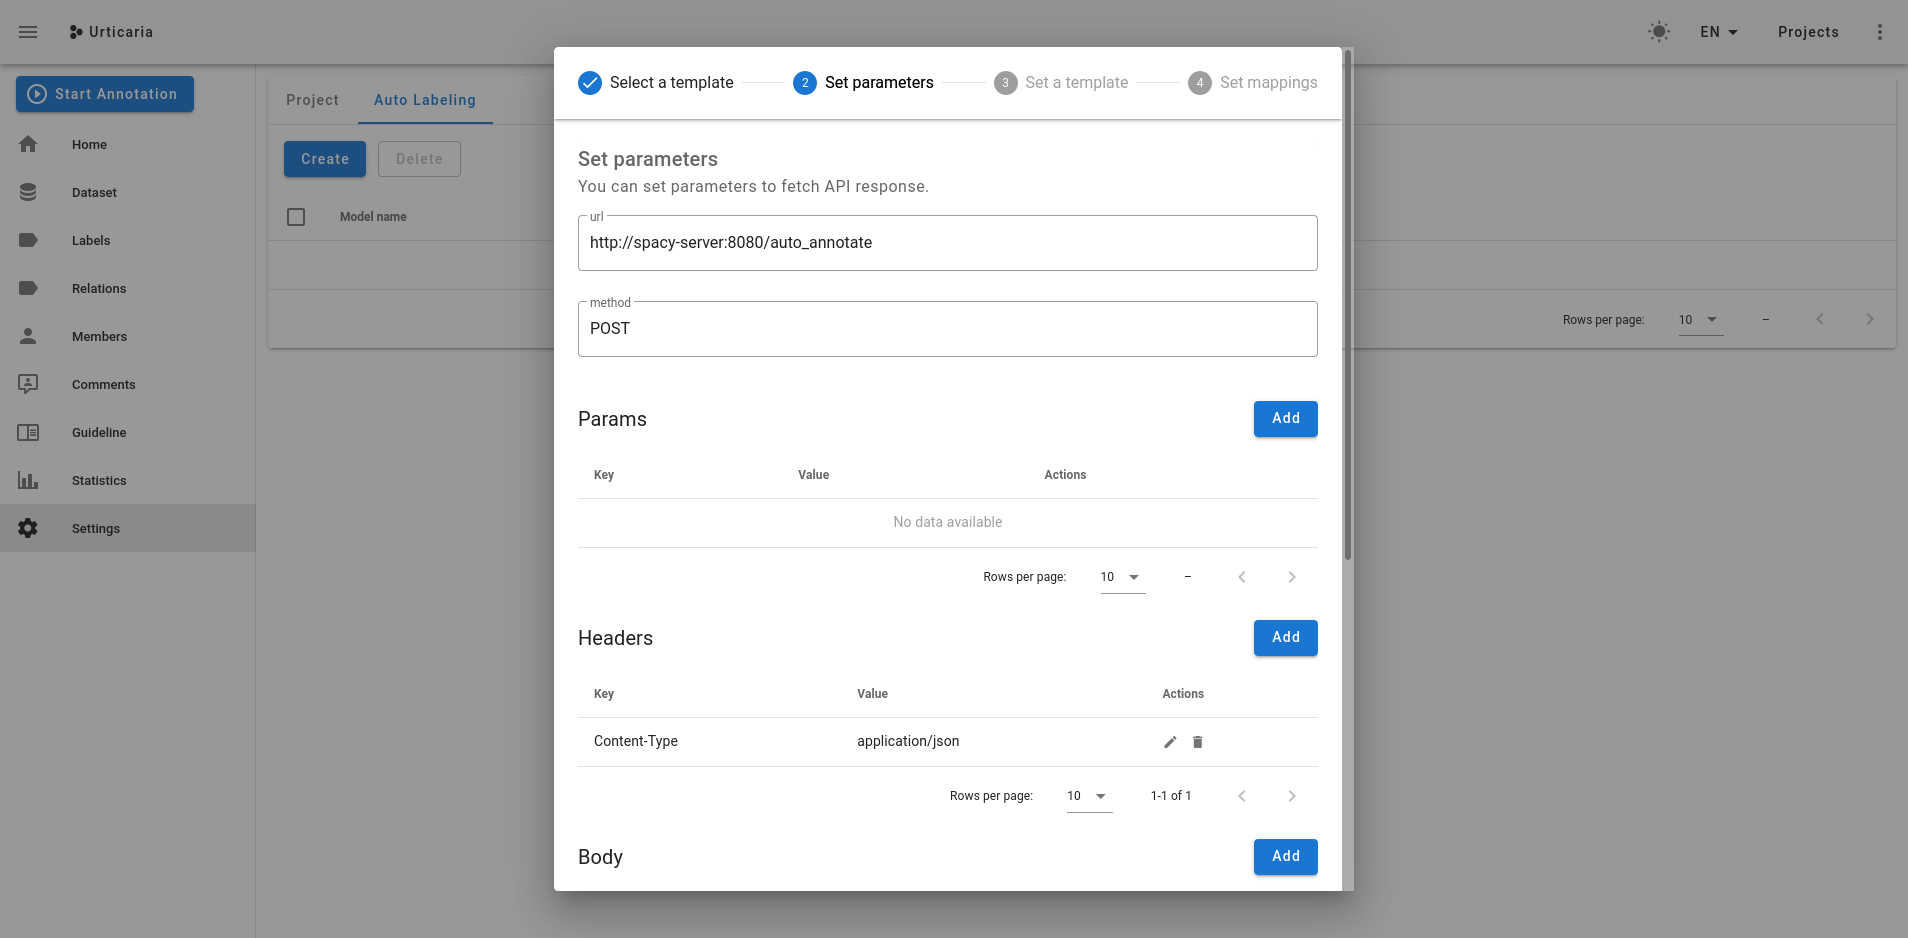
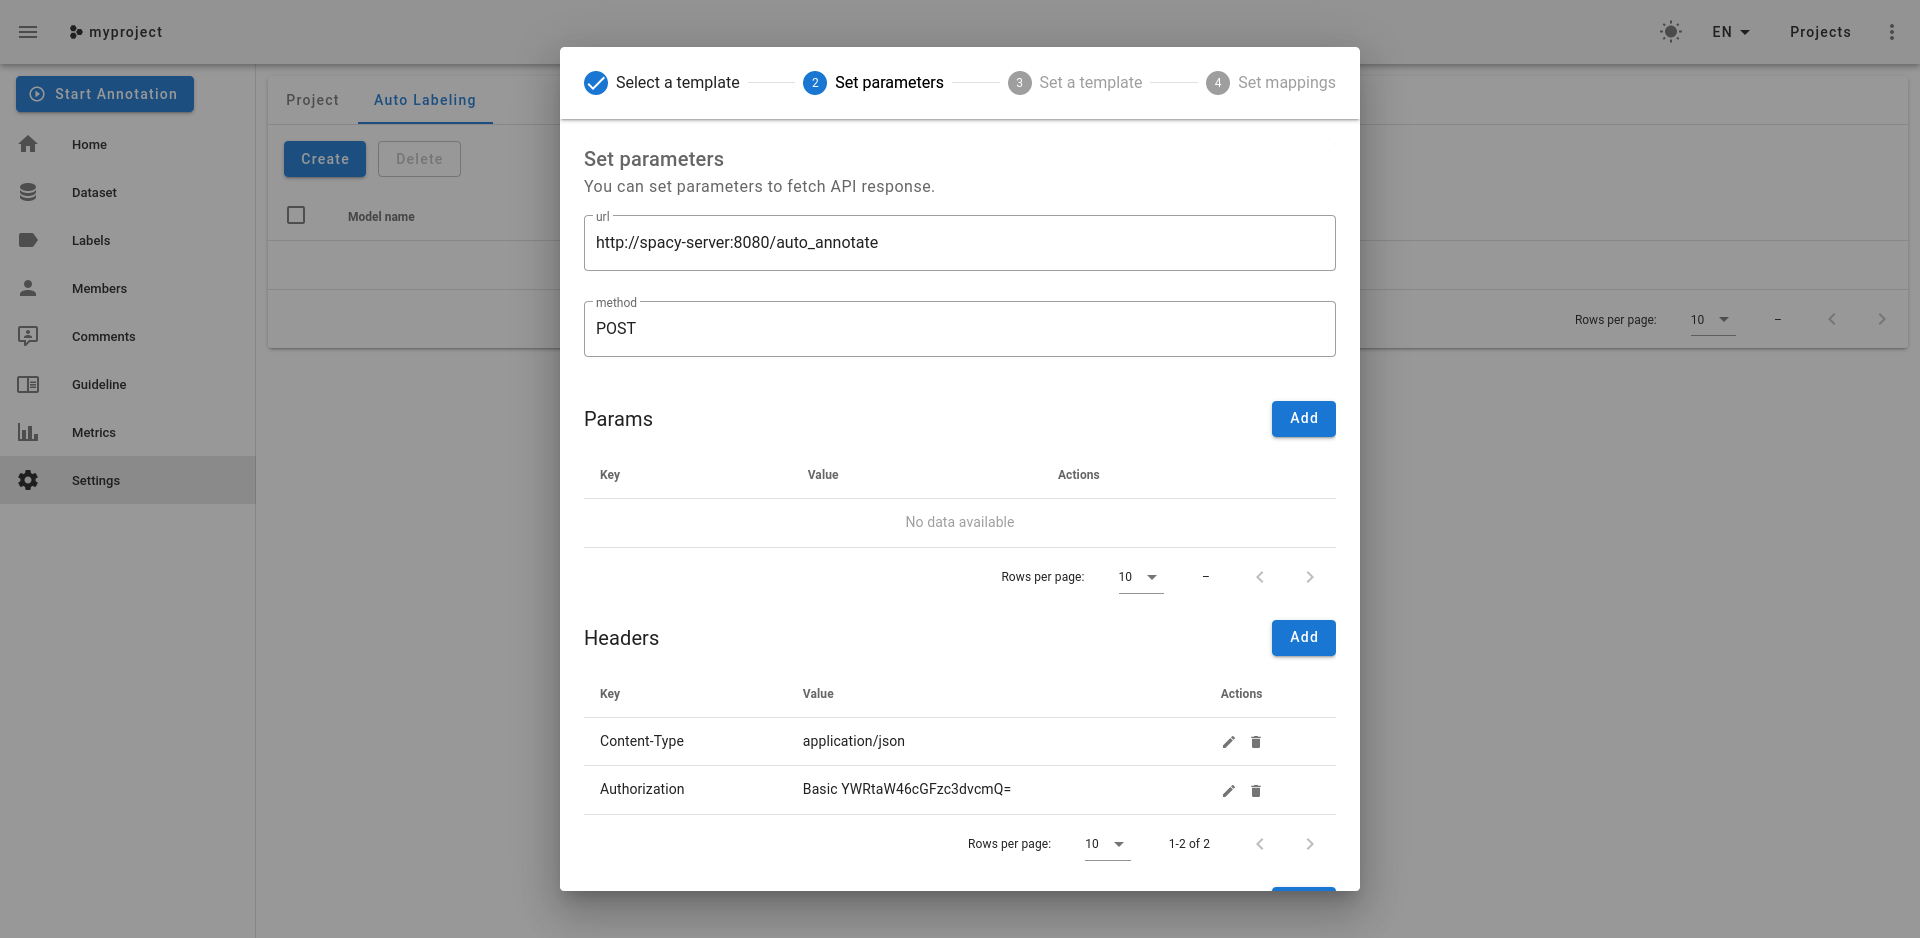
add instructions for server authentication

diff --git a/README.md b/README.md
@@ -50,6 +50,13 @@ fiete@ubu:~/Documents/programming/spacy/doccano_spacy$ tree -L 2 --dirsfirst
 ## Getting started
 
 ### Spinning up the server
+For proper authentication, you'll need to create a `.env` file with the following content in the root of this project:
+```
+SPACY_USER=admin
+SPACY_PASSWORD=password
+```
+You can change the credentials to your liking, but make sure to also adjust the `Authorization` headers, as described in the [Server README](spacy-server/README.md) and the [Set parameters](#set-parameters) step below.
+
 ``` bash
 docker-compose up -d
 ```
@@ -84,7 +91,7 @@ Important: Make sure you have created your custom labels before setting this up!
 Navigate to Settings and select the Auto Labeling tab. Hit `Create` and select `Custom REST template`.
 
 #### Set parameters
-In the next step, we are specifying the request properties.
+In the next step, we are specifying the request properties. This includes setting the `Content-Type` and `Authorization` headers and the request `Body`. For details on how to obtain the correct `Authorization` Header, also check the [Server README](spacy-server/README.md).
 ![Step 2: Set params, set request properties](docs/doccano_automl_setparams_one.png)
 If all is configured correctly, the test should return a valid response.
 ![Step 2: Set params, test the configuration](docs/doccano_automl_setparams_two.png)

diff --git a/spacy-server/README.md b/spacy-server/README.md
@@ -6,8 +6,12 @@ wget -O en_core_sci_md 'https://s3-us-west-2.amazonaws.com/ai2-s2-scispacy/relea
 ```
 
 # Test authentication
+The server api is using Basic Authentication such that it could also run in some publically accessible cloud environment.
+
+Make sure to adjust the `-u admin:password` to the credentials that you have specified in the `.env` file.
 ``` bash
 curl -X POST -F 'foo=bar' -u 'admin:password' http://localhost:8080/auto_annotate
+{"detail":[{"loc":["body"],"msg":"value is not a valid dict","type":"type_error.dict"}]}
 ```
 ## Using Header
 Get the Base64 encoded credentials:
